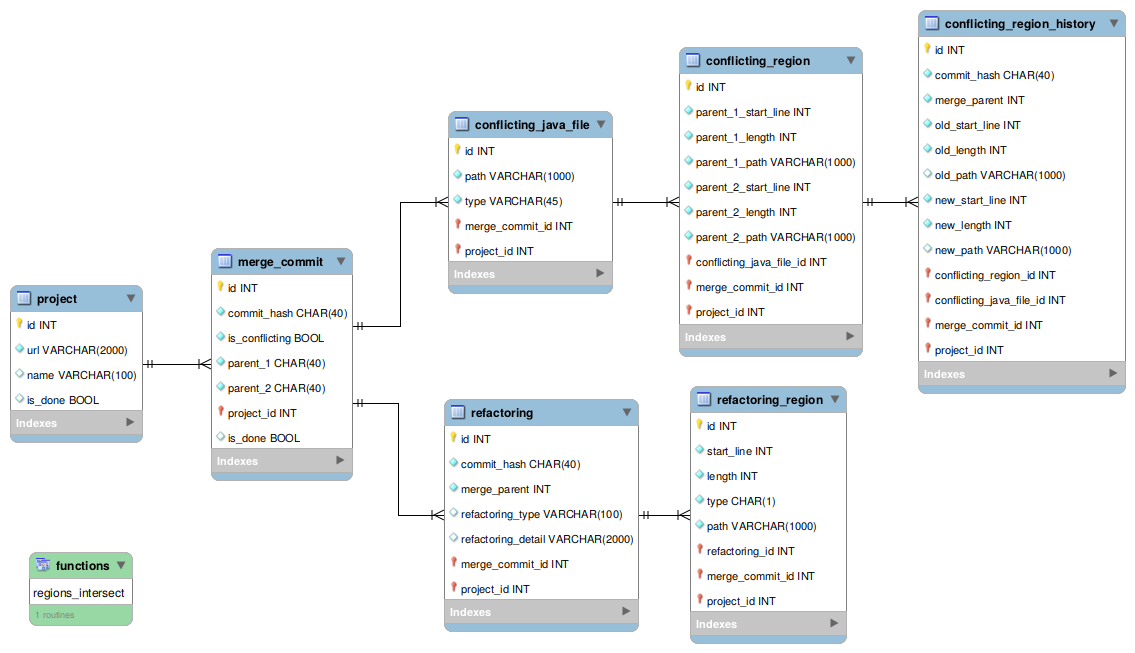
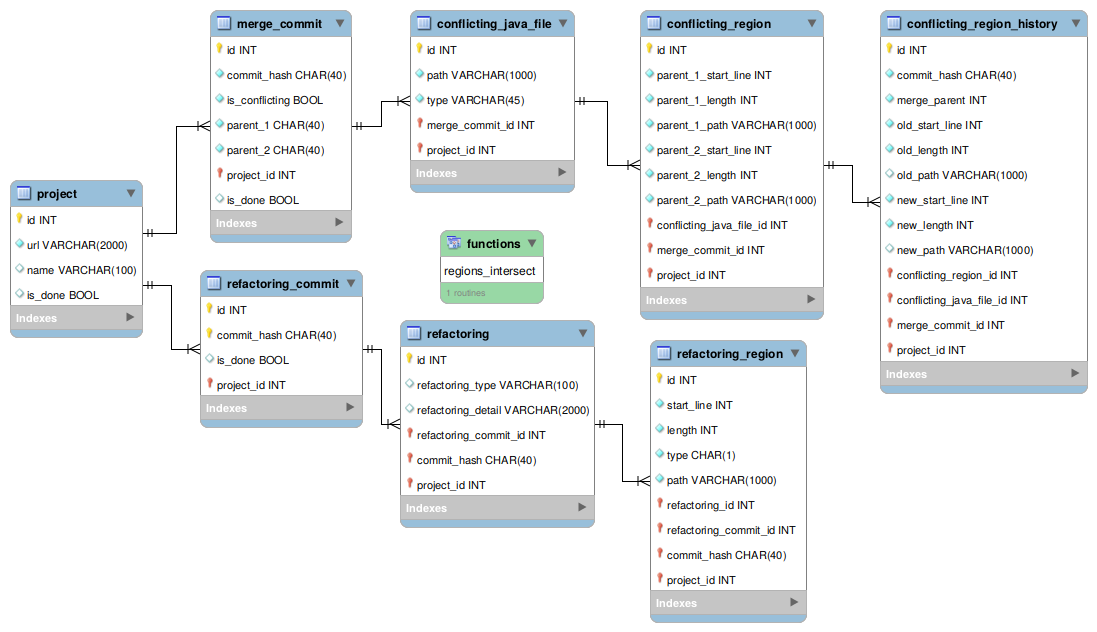
Change database schema to keep track of commits analyzed for refactorings

diff --git a/src/main/java/ca/ualberta/cs/smr/refactoring/analysis/RefactoringAnalysis.java b/src/main/java/ca/ualberta/cs/smr/refactoring/analysis/RefactoringAnalysis.java
@@ -218,9 +218,21 @@ public class RefactoringAnalysis {
                     project.getURL());
             for (int i = 0; i < historyConfRegions.size(); i++) {
                 ConflictingRegionHistory conflictingRegionHistory = historyConfRegions.get(i);
-                if (ca.ualberta.cs.smr.refactoring.analysis.database.Refactoring.where("commit_hash = ?",
-                        conflictingRegionHistory.getCommitHash()).size() > 0)
-                    continue;
+
+                // Check if this commit has already been analyzed with RefMiner
+                RefactoringCommit refactoringCommit = RefactoringCommit.findFirst("commit_hash = ?",
+                        conflictingRegionHistory.getCommitHash());
+                if (refactoringCommit != null) {
+                    if (refactoringCommit.isDone()) {
+                        continue;
+                    } else {
+                        ca.ualberta.cs.smr.refactoring.analysis.database.Refactoring.delete(
+                                "refactoring_commit_id = ?", refactoringCommit.getID());
+                    }
+                } else {
+                    refactoringCommit = new RefactoringCommit(conflictingRegionHistory.getCommitHash(), project.getId());
+                    refactoringCommit.saveIt();
+                }
 
                 Utils.log(project.getName(), String.format("Analyzing commit %.7s with RefMiner... (%d/%d)",
                         conflictingRegionHistory.getCommitHash(), i + 1, historyConfRegions.size()));
@@ -229,12 +241,9 @@ public class RefactoringAnalysis {
                 for (Refactoring refactoring : refactorings) {
                     ca.ualberta.cs.smr.refactoring.analysis.database.Refactoring refactoringModel =
                             new ca.ualberta.cs.smr.refactoring.analysis.database.Refactoring(
-                                    conflictingRegionHistory.getCommitHash(),
-                                    conflictingRegionHistory.getMergeParent(),
                                     refactoring.getRefactoringType().getDisplayName(),
                                     refactoring.toString(),
-                                    conflictingRegionHistory.getMergeCommitId(),
-                                    conflictingRegionHistory.getProjectId());
+                                    refactoringCommit);
                     refactoringModel.saveIt();
 
                     sourceCodeRanges.clear();
@@ -245,6 +254,8 @@ public class RefactoringAnalysis {
                     destCodeRanges.forEach(cr -> new RefactoringRegion('d', cr.getFilePath(), cr.getStartLine(),
                             cr.getEndLine() - cr.getStartLine(), refactoringModel).saveIt());
                 }
+                refactoringCommit.setDone();
+                refactoringCommit.saveIt();
                 refactorings.clear();
             }
             historyConfRegions.clear();

diff --git a/src/main/java/ca/ualberta/cs/smr/refactoring/analysis/database/Refactoring.java b/src/main/java/ca/ualberta/cs/smr/refactoring/analysis/database/Refactoring.java
@@ -11,19 +11,23 @@ public class Refactoring extends Model {
     public Refactoring() {
     }
 
-    public Refactoring(String commitHash, int mergeParent, String type, String detail, int mergeCommitId, int projectId) {
-        set("commit_hash", commitHash, "merge_parent", mergeParent, "refactoring_type", type, "refactoring_detail",
+    public Refactoring(String type, String detail, RefactoringCommit refactoringCommit) {
+        set("refactoring_type", type, "refactoring_detail",
                 detail.substring(0, Math.min(detail.length(), MAX_DETAIL_LENGTH)),
-                "merge_commit_id", mergeCommitId, "project_id", projectId);
+                "refactoring_commit_id", refactoringCommit.getID(), "commit_hash", refactoringCommit.getCommitHash(),
+                "project_id", refactoringCommit.getProjectId());
     }
-
-    public int getMergeCommitId() {
-        return getInteger("merge_commit_id");
-    }
-
 
     public int getProjectId() {
         return getInteger("project_id");
+    }
+
+    public String getCommitHash() {
+        return getString("commit_hash");
+    }
+
+    public int getRefactoringCommitId() {
+        return getInteger("refactoring_commit_id");
     }
 
 }

diff --git a/src/main/java/ca/ualberta/cs/smr/refactoring/analysis/database/RefactoringCommit.java b/src/main/java/ca/ualberta/cs/smr/refactoring/analysis/database/RefactoringCommit.java
@@ -1,0 +1,36 @@
+package ca.ualberta.cs.smr.refactoring.analysis.database;
+
+import org.javalite.activejdbc.Model;
+import org.javalite.activejdbc.annotations.Table;
+
+@Table("refactoring_commit")
+public class RefactoringCommit extends Model {
+
+    public RefactoringCommit() {
+    }
+
+    public RefactoringCommit(String commitHash, Object projectId) {
+        set("commit_hash", commitHash, "project_id", projectId, "is_done", false);
+    }
+
+    public int getID() {
+        return getInteger("id");
+    }
+
+    public int getProjectId() {
+        return getInteger("project_id");
+    }
+
+    public String getCommitHash() {
+        return getString("commit_hash");
+    }
+
+    public boolean isDone() {
+        return getBoolean("is_done");
+    }
+
+    public void setDone() {
+        setBoolean("is_done", true);
+    }
+
+}

diff --git a/src/main/java/ca/ualberta/cs/smr/refactoring/analysis/database/RefactoringRegion.java b/src/main/java/ca/ualberta/cs/smr/refactoring/analysis/database/RefactoringRegion.java
@@ -10,7 +10,8 @@ public class RefactoringRegion extends Model {
     public RefactoringRegion(char type, String path, int startLine, int length, Refactoring refactoring) {
         set("type", String.valueOf(type).toLowerCase(), "path", path, "start_line", startLine, "length", length,
                 "refactoring_id", refactoring.getId(),
-                "merge_commit_id", refactoring.getMergeCommitId(),
+                "refactoring_commit_id", refactoring.getRefactoringCommitId(),
+                "commit_hash", refactoring.getCommitHash(),
                 "project_id", refactoring.getProjectId());
     }
 }
